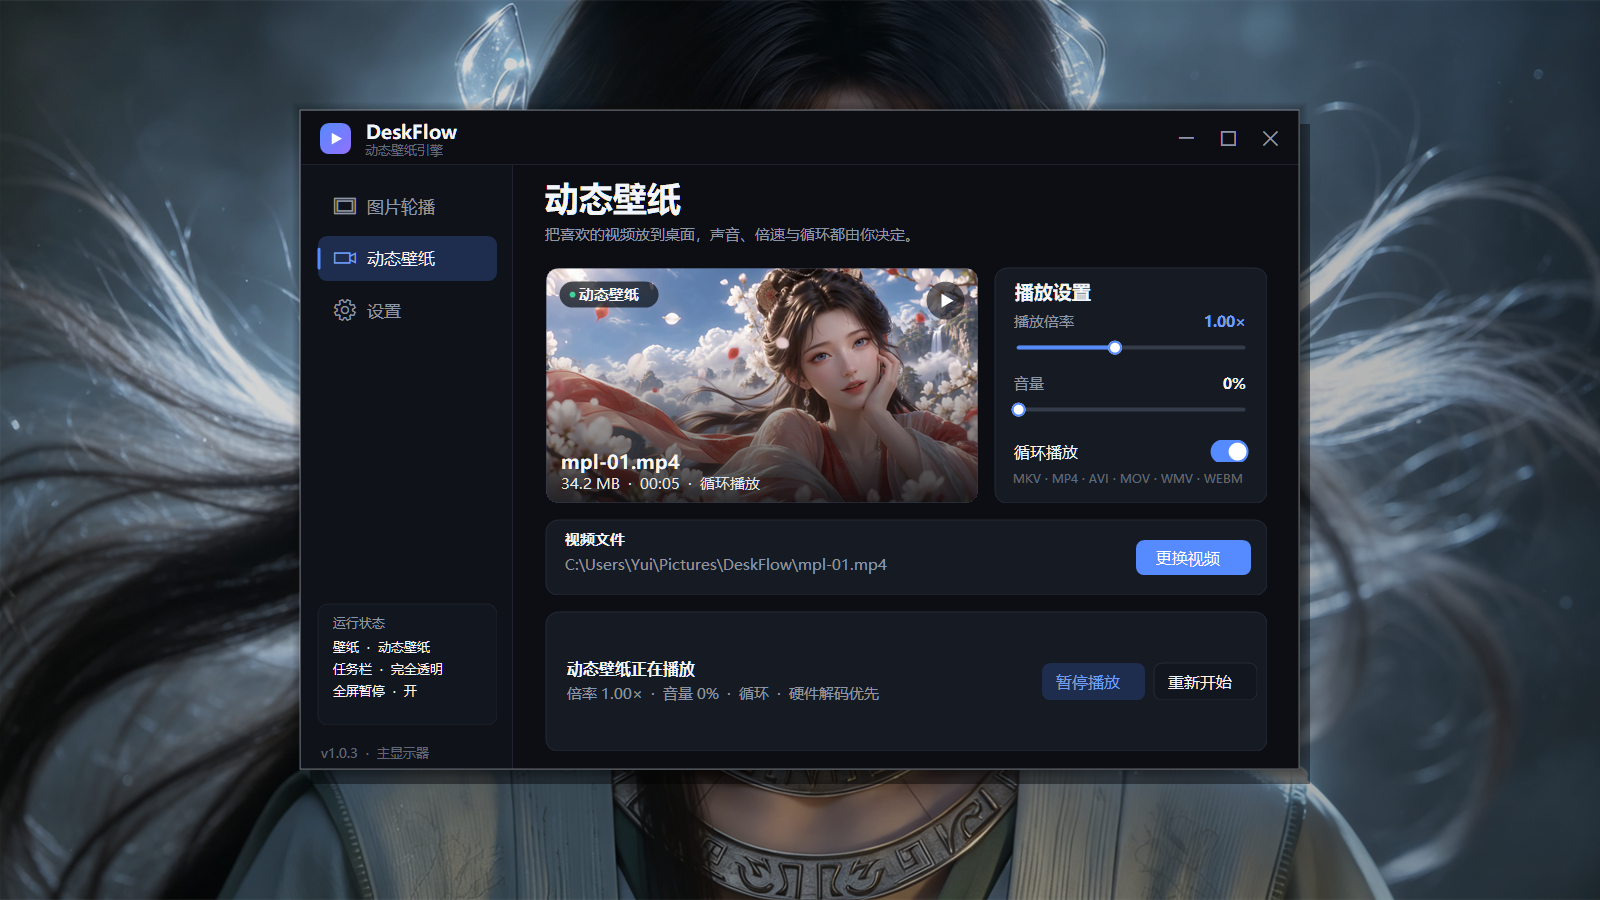
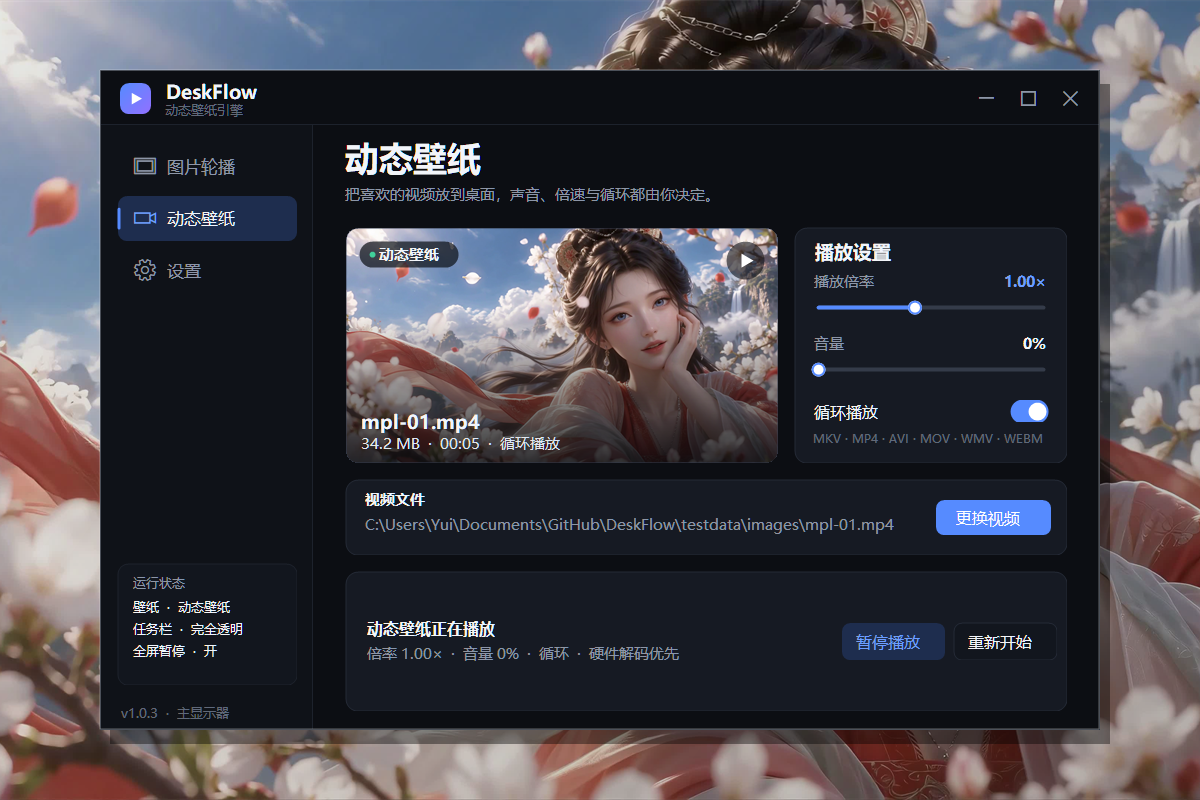
Use testdata-matched desktop backgrounds in screenshots

diff --git a/RELEASE_NOTES.md b/RELEASE_NOTES.md
@@ -5,7 +5,7 @@
 ## 本版更新
 
 - **动态壁纸自动加载视频封面**：开始播放后，用 VLC 抓取当前帧并显示在“动态壁纸”页的预览区，不再只有占位图标；封面右上角保留播放标识。
-- **截图带桌面背景**：README 的图片轮播和动态壁纸截图改为放在桌面壁纸上的完整效果图，不再只截软件窗口。
+- **截图带桌面背景**：README 的图片轮播和动态壁纸截图使用测试图片/视频画面作背景，界面预览与背景保持一致，并保留一部分桌面区域。
 - 保留 v1.0.2 的页面标题 / 格式说明排版修复：
   - 页面标题不再被副标题截断。
   - 视频格式支持说明改为单行小字号，完整显示 `MKV · MP4 · AVI · MOV · WMV · WEBM`。
@@ -25,7 +25,7 @@
 | 文件 | 说明 | SHA-256 |
 | --- | --- | --- |
[3 lines of base64/hex data omitted]
 
 ## 系统要求
 
